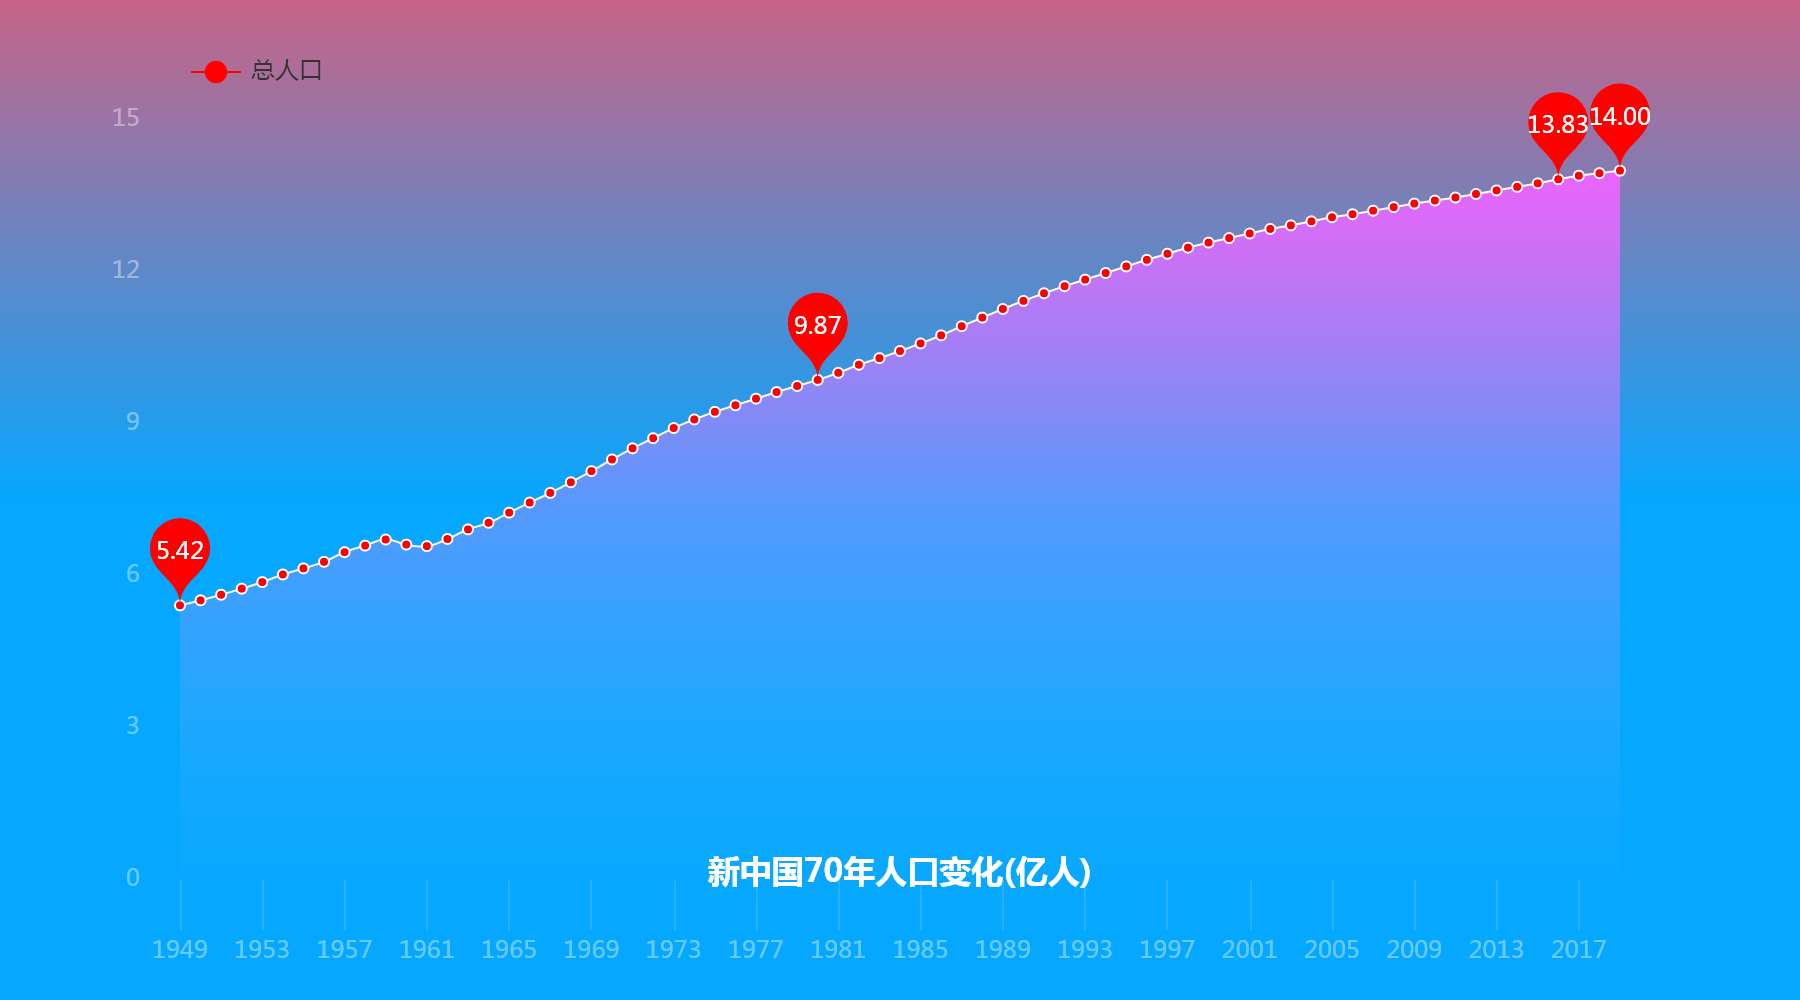
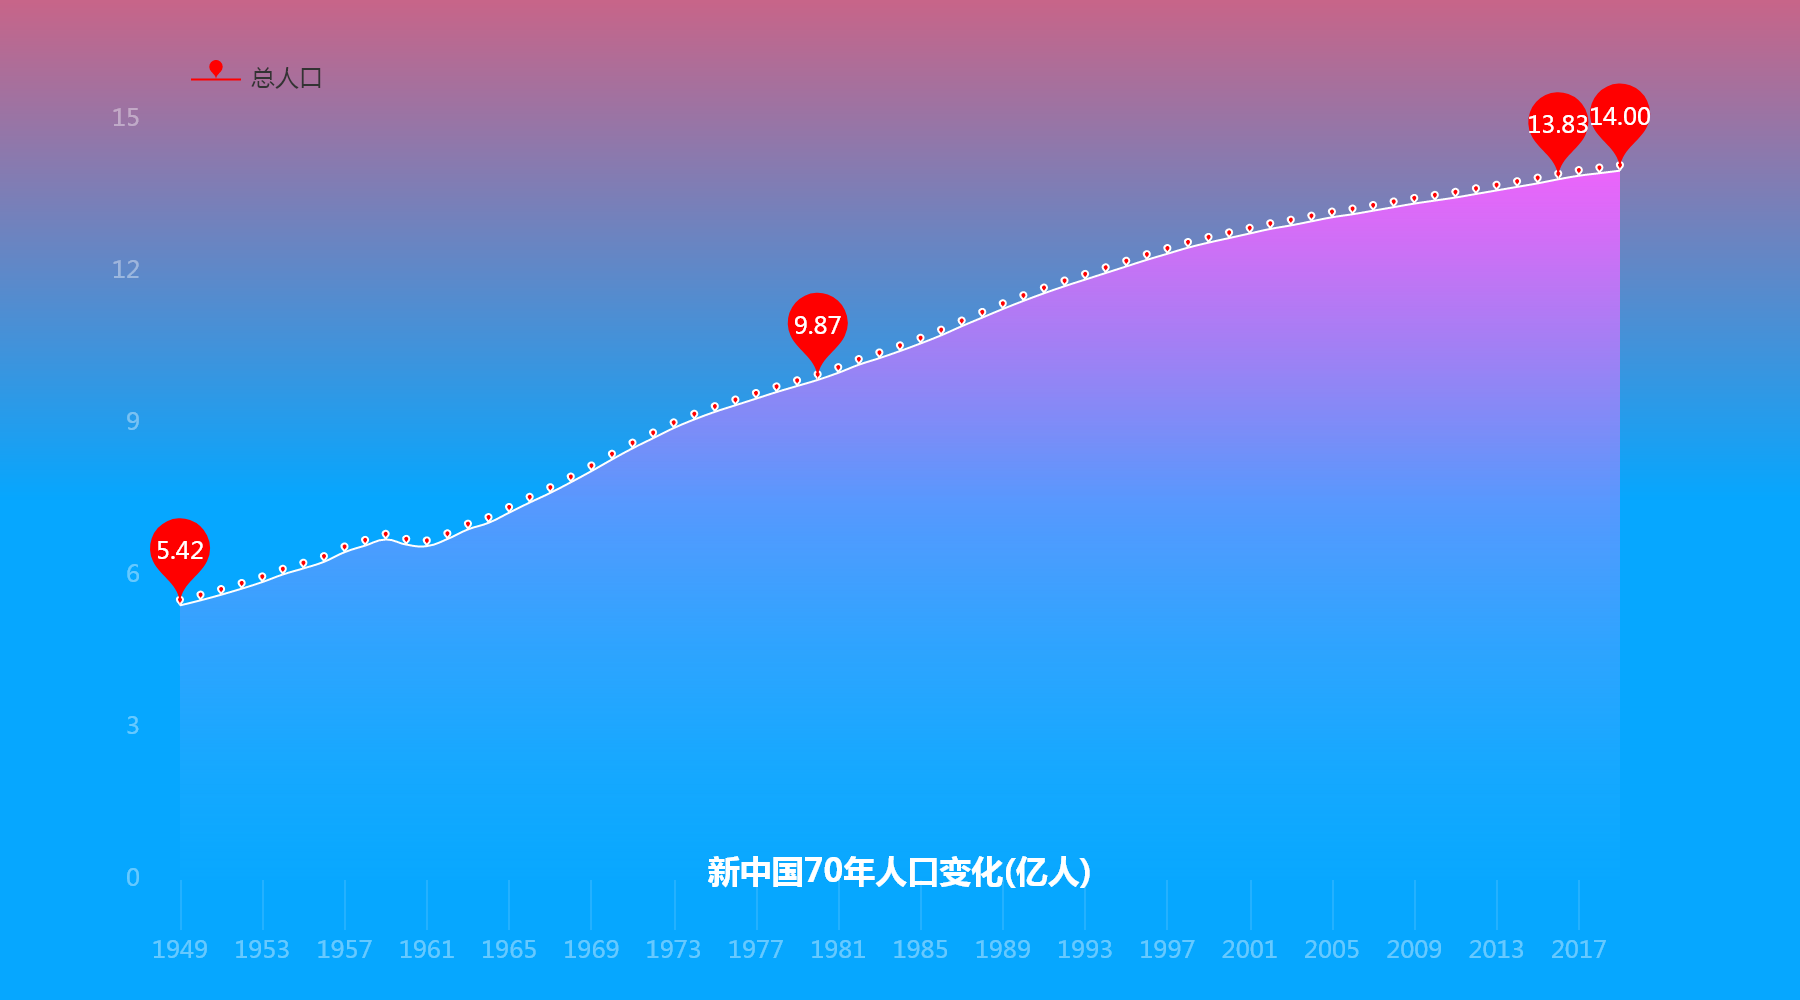
pccode21

diff --git a/src/spider/china_population/render.html b/src/spider/china_population/render.html
@@ -7,11 +7,11 @@
 
 </head>
 <body>
-    <div id="95360e3c96404069b0f6b1cdb001359d" class="chart-container" style="width:900px; height:500px;"></div>
+    <div id="a2fe6c9b17f04b849b48087f288fe4a2" class="chart-container" style="width:900px; height:500px;"></div>
     <script>
-        var chart_95360e3c96404069b0f6b1cdb001359d = echarts.init(
-            document.getElementById('95360e3c96404069b0f6b1cdb001359d'), 'white', {renderer: 'canvas'});
-        var option_95360e3c96404069b0f6b1cdb001359d = {
+        var chart_a2fe6c9b17f04b849b48087f288fe4a2 = echarts.init(
+            document.getElementById('a2fe6c9b17f04b849b48087f288fe4a2'), 'white', {renderer: 'canvas'});
+        var option_a2fe6c9b17f04b849b48087f288fe4a2 = {
     "backgroundColor": new echarts.graphic.LinearGradient(0, 0, 0, 1, [{offset: 0, color: '#c86589'}, {offset: 1, color: '#06a7ff'}], false),
     "animation": true,
     "animationThreshold": 2000,
@@ -52,7 +52,7 @@
             "type": "line",
             "name": "\u603b\u4eba\u53e3",
             "connectNulls": false,
-            "symbol": "circle",
+            "symbol": "pin",
             "symbolSize": 5,
             "showSymbol": true,
             "smooth": true,
@@ -573,7 +573,7 @@
         }
     ]
 };
-        chart_95360e3c96404069b0f6b1cdb001359d.setOption(option_95360e3c96404069b0f6b1cdb001359d);
+        chart_a2fe6c9b17f04b849b48087f288fe4a2.setOption(option_a2fe6c9b17f04b849b48087f288fe4a2);
     </script>
 </body>
 </html>

diff --git a/src/spider/china_population/pyecharts_analysis_line.py b/src/spider/china_population/pyecharts_analysis_line.py
@@ -37,9 +37,11 @@ def analysis_total():  # 分析总人口
             y_axis=y_data,  # 系列数据
             is_smooth=True,  # 是否平滑曲线
             is_symbol_show=True,  # 是否显示 symbol标记
-            symbol="circle",
-            # 标记的图形，
-            # ECharts 提供的标记类型包括 'circle', 'rect', 'roundRect', 'triangle','diamond', 'pin', 'arrow', 'none'
+            symbol="pin",
+            # 标记为圆针型，
+            # symbol='path://M100,200 C100,100 250,100 250,200 S400,300 400,200',
+            # svg图引入,svg图用notepad++软件或者记事本打开，将d属性值复制出来前面加path://即可
+            # ECharts 提供的标记类型包括 'circle'圆, 'rect'正方, 'roundRect'圆正方, 'triangle'三角,'diamond'菱形, 'pin'圆针, 'arrow'箭头, 'none'
             # 可以通过 'image://url' 设置为图片，其中 URL 为图片的链接，或者 dataURI
             symbol_size=5,
             # 标记的大小，可以设置成诸如 10 这样单一的数字，也可以用数组分开表示宽和高
